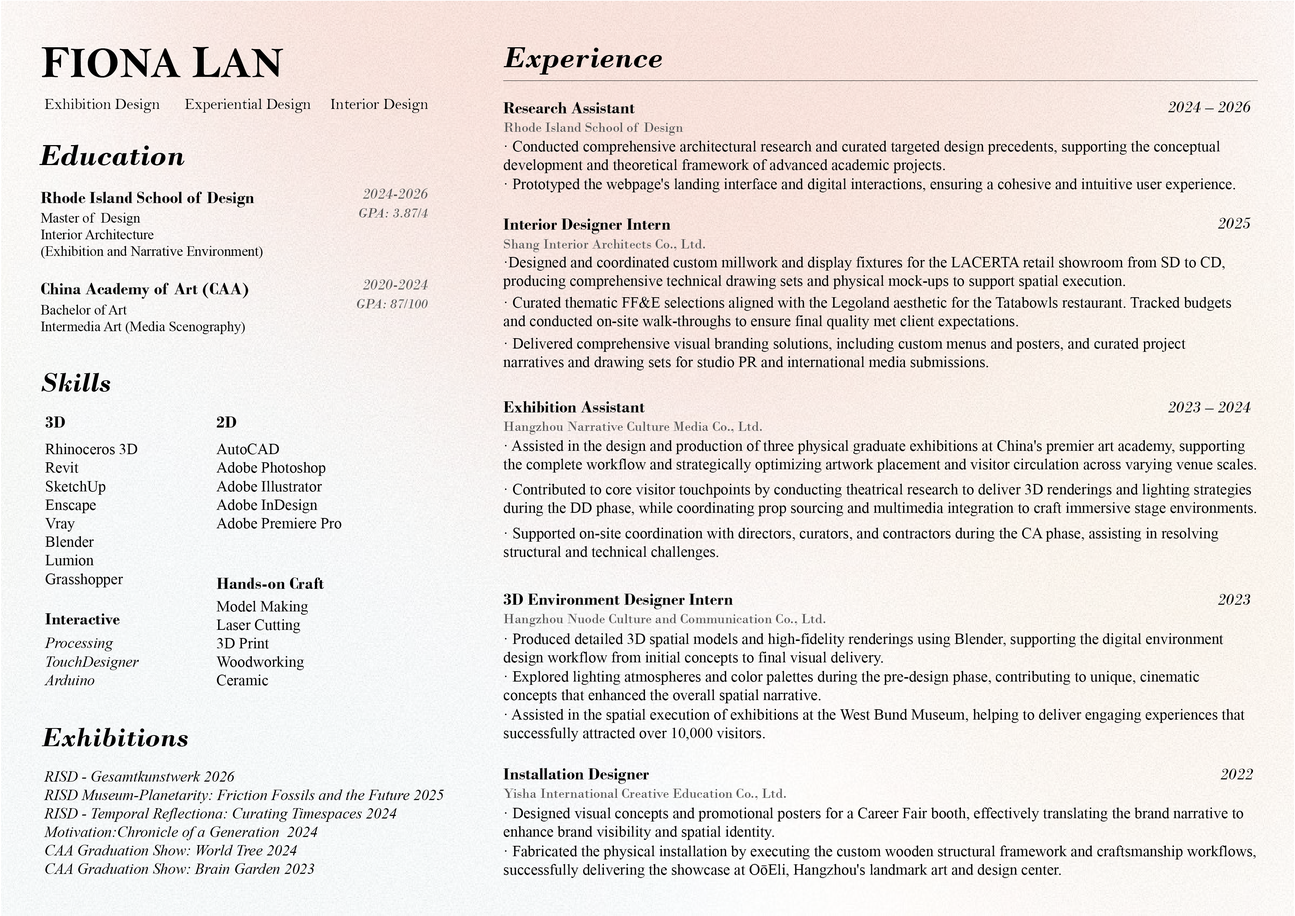
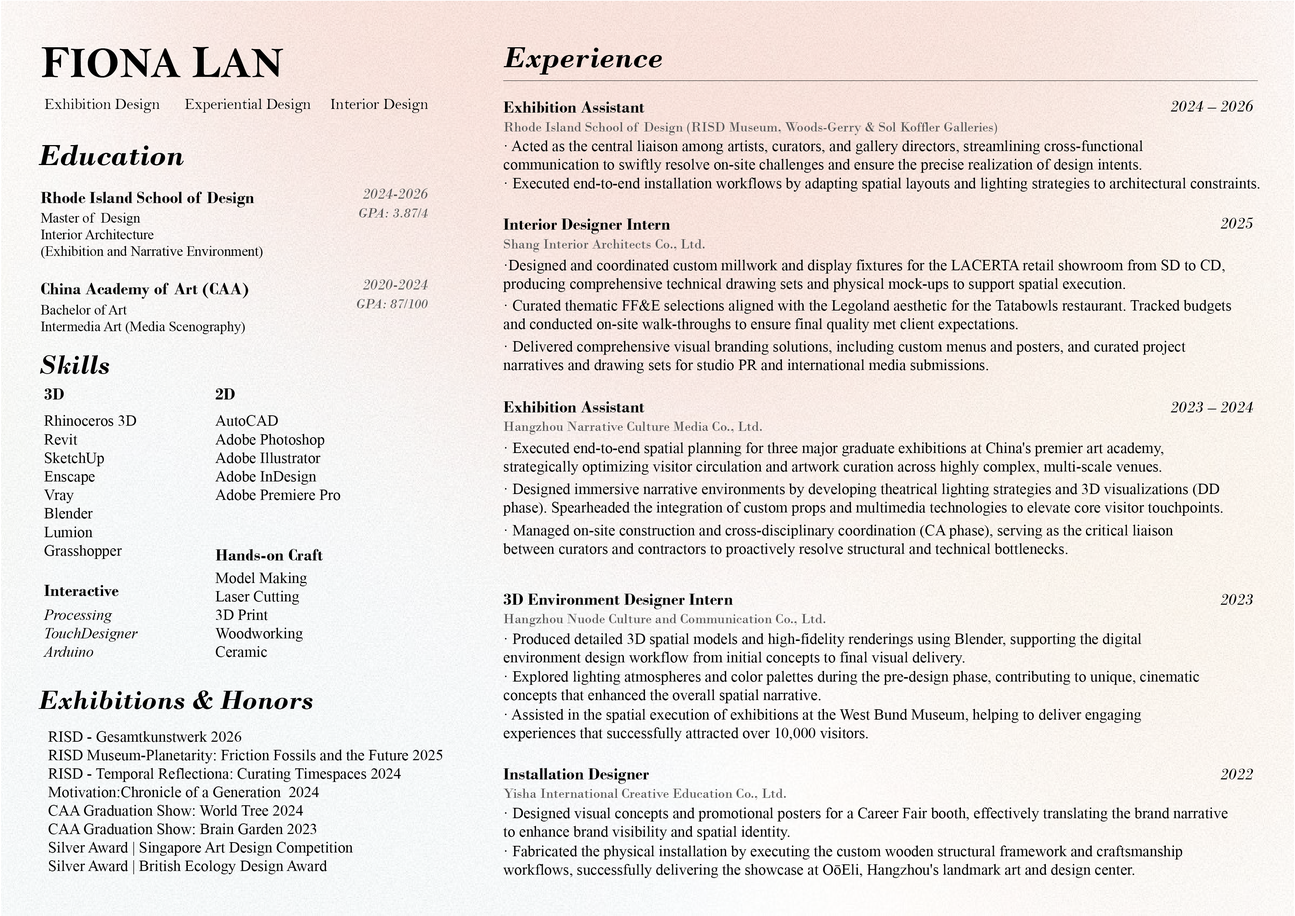
Rebuild 15 Rules layout and update resume image.

diff --git a/src/index.js b/src/index.js
@@ -103,6 +103,7 @@ import rules2main from "./assets/G (15 Rules for Rebuilding the World)/2main.png
 import rules3 from "./assets/G (15 Rules for Rebuilding the World)/3.png";
 import rules4 from "./assets/G (15 Rules for Rebuilding the World)/4.png";
 import rules5 from "./assets/G (15 Rules for Rebuilding the World)/5.png";
+import rulesMoodboard from "./assets/G (15 Rules for Rebuilding the World)/moodboard.png";
 import rules6modul from "./assets/G (15 Rules for Rebuilding the World)/6modul.png";
 import rules7elevation from "./assets/G (15 Rules for Rebuilding the World)/7elevation.png";
 import rules8plan from "./assets/G (15 Rules for Rebuilding the World)/8PLAN .png";
@@ -609,7 +610,7 @@ const projectData = {
   },
   "project-g": {
     title: "15 Rules for Rebuilding the World",
-    desc: "This exhibition invites you to experience Christopher Alexander's \"Fifteen Fundamental Properties\" through the evocative and immersive world of Pina Bausch's stage photography. Pina's groundbreaking stage designs and choreography transcend mere aesthetics, channeling deep emotional currents and architectural precision. <br><br>Each photograph captures these principles in action—Scale, Centers, Rhythm, Contrast, Simplicity—manifesting a vibrant tension and flow that transforms space. Through these dynamic scenes, we uncover how these properties animate space, crafting environments that pulse with a compelling, almost visceral sense of life. Prepare to step into a world where design principles are not just visible, but deeply felt, alive, and unbound.",
+    desc: "This exhibition invites you to experience Christopher Alexander's \"Fifteen Fundamental Properties\" through the evocative and immersive world of Pina Bausch's stage photography. Pina's groundbreaking stage designs and choreography transcend mere aesthetics, channeling deep emotional currents and architectural precision.",
     image: rulesMain,
     scenes: [
       {
@@ -620,32 +621,29 @@ const projectData = {
       {
         title: "",
         desc: "",
-        image: rules2main,
+        images: [rules2main, rules3],
+        flexEqualHeight: true,
+      },
+      {
+        title: "",
+        desc: "Each photograph captures these principles in action—Scale, Centers, Rhythm, Contrast, Simplicity—manifesting a vibrant tension and flow that transforms space. Through these dynamic scenes, we uncover how these properties animate space, crafting environments that pulse with a compelling, almost visceral sense of life. Prepare to step into a world where design principles are not just visible, but deeply felt, alive, and unbound.",
       },
       {
         title: "",
         desc: "",
-        image: rules3,
+        images: [rules4, rules5],
+        flexEqualHeight: true,
       },
       {
         title: "",
         desc: "",
-        image: rules4,
+        image: rulesMoodboard,
       },
       {
         title: "",
         desc: "",
-        image: rules5,
-      },
-      {
-        title: "",
-        desc: "",
-        image: rules6modul,
-      },
-      {
-        title: "",
-        desc: "",
-        image: rules7elevation,
+        images: [rules6modul, rules7elevation],
+        flexEqualHeight: true,
       },
       {
         title: "",
@@ -655,7 +653,16 @@ const projectData = {
       {
         title: "",
         desc: "",
-        images: [rulesSmall1, rulesSmall2, rulesSmall3, rulesSmall4, rulesSmall5],
+        images: [rulesSmall1, rulesSmall2, rulesSmall3],
+        flexEqualHeight: true,
+        scale: 0.7,
+      },
+      {
+        title: "",
+        desc: "",
+        images: [rulesSmall4, rulesSmall5],
+        flexEqualHeight: true,
+        scale: 0.7,
       },
     ],
   },
@@ -1641,9 +1648,17 @@ function setupProjectDetail() {
             const noCropClass = scene?.noCrop ? " no-crop" : "";
             const equalHeightClass = scene?.equalHeight ? " equal-height" : "";
             const flexEqualHeightClass = scene?.flexEqualHeight ? " flex-equal-height" : "";
+            const scaleClass = scene?.scale ? " detail-image-scaled" : "";
 
             // If flexEqualHeight is used, don't use grid classes
             const finalGridClass = flexEqualHeightClass ? "" : gridClass;
+
+            if (scene?.scale) {
+              const scaleWidth = `width: ${scene.scale * 100}%;`;
+              customGridStyle = customGridStyle
+                ? customGridStyle.replace('style="', `style="${scaleWidth} margin: 0 auto; `)
+                : ` style="${scaleWidth} margin: 0 auto;"`;
+            }
 
             const rotations = scene?.imageRotations || [];
             const swapAspect = scene?.swapAspectRatio || [];
@@ -1665,7 +1680,7 @@ function setupProjectDetail() {
               <div class="scene-block">
                 ${safeTitle ? `<h3 class="detail-scene-title">${safeTitle}</h3>` : ""}
                 ${safeDesc ? `<div class="detail-desc">${safeDesc}</div>` : ""}
-                <div class="detail-image-grid mt-3 ${finalGridClass}${noCropClass}${equalHeightClass}${flexEqualHeightClass}"${customGridStyle}>
+                <div class="detail-image-grid mt-3 ${finalGridClass}${noCropClass}${equalHeightClass}${flexEqualHeightClass}${scaleClass}"${customGridStyle}>
                   ${gridImages}
                 </div>
               </div>
